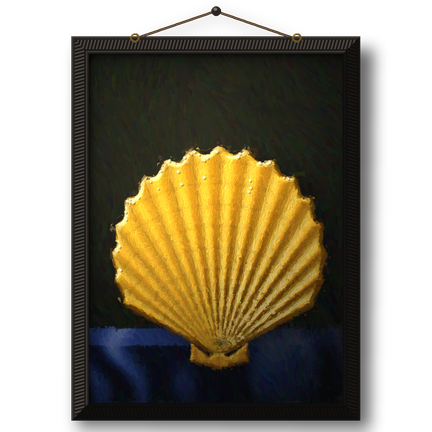
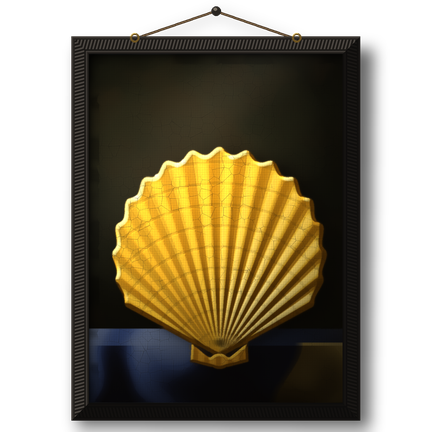
feat: 筆跡をやめ『真珠の耳飾りの少女』の油彩の質感に寄せる（v7）
輪郭線を消して陰の側で闇に溶かし、Kuwahara で色面をまとめ、
カンヴァスの布目・網目状の亀裂・黄ばんだワニスの艶・鉛白の盛り上がりを加えた。
卓の布はターバンの群青と垂れ布の黄。

Claude-Session: https://claude.ai/code/session_01V2YWGYfaTiAXVAgHL6hxQe

Changed region(s): [[0.2106, 0.331, 0.8125, 0.9329], [0.331, 0.6319, 0.3611, 0.662]]

diff --git a/icon-pack/tools/render_vermeer_portrait.py b/icon-pack/tools/render_vermeer_portrait.py
@@ -1,4 +1,4 @@
-"""聖なる持物パック v6 — フェルメール版を縦長の額装絵画にする。
+"""聖なる持物パック v7 — フェルメール版を縦長の額装の油彩画にする（『真珠の耳飾りの少女』の質感）。
 
 render_vermeer の室内を、持物を左へ寄せて描き直し、窓を含む左側を 3:4 前後の縦長に切り出す。
 それを黒檀の波形額に入れ、壁の釘から紐で吊るし、壁へ影を落とした透過 PNG にする。
@@ -61,121 +61,161 @@ def _raw_finish(base, rng, a=None):
     return base
 
 
-# ── 筆致: 画面を筆の線で塗り直し、絵具の盛り上がりに光を当てる ──────────────
+# ── 油彩の物質感（筆跡は見せない） ─────────────────────────────────
 
-def _orientation(src, rng):
-    lum = src.mean(-1)
-    b = ra.blur(lum, 3.0)
-    gy, gx = np.gradient(b)
-    mag = np.hypot(gx, gy)
-    along = np.arctan2(gx, -gy)                        # 輪郭に沿う向き
-    free = 1.15 + (fbm(rng, (160, 80)) - 0.5) * 1.6    # 平らな所は斜めに刷く
-    w = np.clip(mag / 3.0, 0, 1)
-    vx = np.cos(along) * w + np.cos(free) * (1 - w)
-    vy = np.sin(along) * w + np.sin(free) * (1 - w)
-    return np.arctan2(vy, vx), mag
-
-
-def painterly(src, rng, a=None):
-    """3 層の筆致（大・中・小）。各筆は毛先の筋を持ち、高さ図にも同じ形で盛る。"""
-    ang, mag = _orientation(src, rng)
-    src_soft = np.stack([ra.blur(src[..., c], 5) for c in range(3)], -1)
-    src_mid = np.stack([ra.blur(src[..., c], 1.6) for c in range(3)], -1)
-    color = Image.fromarray(np.clip(src_soft, 0, 255).astype(np.uint8))
-    height = Image.new("L", (S, S), 90)
-    cd, hd = ImageDraw.Draw(color), ImageDraw.Draw(height)
-    detail = np.clip(mag / 2.5, 0, 1)
-    layers = (
-        (src_soft, 4200, (34, 60), (12, 18), None),            # 下塗りの大きな筆
-        (src_mid, 12000, (18, 32), (7, 11), "lit"),            # 光の当たる面を起こす中筆
-        (src, 14000, (8, 14), (3, 5), "detail"),                # 輪郭と細部の小筆
-    )
-    for img, n, (l0, l1), (w0, w1), where in layers:
-        ys, xs = rng.integers(0, S, n), rng.integers(0, S, n)
-        if where == "detail":
-            keep = detail[ys, xs] * 1.5 + (a[ys, xs] * 0.8 if a is not None else 0) > rng.random(n)
-            ys, xs = ys[keep], xs[keep]
-        elif where == "lit":
-            lumv = img.mean(-1)[ys, xs] / 255
-            keep = rng.random(n) < (lumv * 1.4 + detail[ys, xs])
-            ys, xs = ys[keep], xs[keep]
-        elif where is not None:
-            keep = rng.random(n) < (where + detail[ys, xs])
-            ys, xs = ys[keep], xs[keep]
-        for y, x in zip(ys, xs):
-            t = ang[y, x] + rng.normal(0, 0.1)
-            L = rng.uniform(l0, l1) / 2
-            w = int(rng.uniform(w0, w1))
-            dx, dy = L * math.cos(t), L * math.sin(t)
-            p0, p1 = (x - dx, y - dy), (x + dx, y + dy)
-            c = img[y, x] + rng.normal(0, 5, 3)
-            col = tuple(int(v) for v in np.clip(c, 0, 255))
-            cd.line([p0, p1], fill=col, width=w)
-            hd.line([p0, p1], fill=150, width=w)
-            hd.line([p0, p1], fill=200, width=max(1, w // 2))
-            # 毛先の筋（明暗 2 本）
-            ox, oy = -math.sin(t) * w * 0.28, math.cos(t) * w * 0.28
-            for k, f in ((1, 1.07), (-1, 0.93)):
-                q0 = (p0[0] + ox * k, p0[1] + oy * k)
-                q1 = (p1[0] + ox * k, p1[1] + oy * k)
-                cd.line([q0, q1], fill=tuple(int(v) for v in np.clip(c * f, 0, 255)), width=max(1, w // 6))
-                hd.line([q0, q1], fill=120 if k > 0 else 230, width=max(1, w // 6))
-    out = np.asarray(color, float)
-    h = ra.blur(np.asarray(height, float) / 255, 1.1)
-    gy, gx = np.gradient(h * 9)
-    relief = np.clip((-gx * -0.6 - gy * -0.7) * 1.0, -1, 1)   # 左上からの光
-    lumf = np.clip(out.mean(-1) / 255 * 1.6, 0.15, 1)   # 筆跡の凹凸は明部ほど見える
-    out = out * (1 + relief * 0.2 * lumf)[..., None]
-    # 半分ほどを溶かした下層に戻し、フェルメールのなめらかさを出す
-    return out * 0.68 + src_mid * 0.32
+def _quadrant_means(img, r):
+    """Kuwahara 用: 各画素の四象限の平均色と輝度分散。"""
+    H, W = img.shape[:2]
+    lum = img.mean(-1)
+    def integ(a):
+        a = np.pad(a, ((r, r), (r, r)), mode="edge")
+        P = np.zeros((a.shape[0] + 1, a.shape[1] + 1) + a.shape[2:])
+        P[1:, 1:] = a.cumsum(0).cumsum(1)
+        return P
+    chans = [integ(img[..., c]) for c in range(3)] + [integ(lum), integ(lum ** 2)]
+    n = (r + 1) ** 2
+    res = []
+    for y0, x0 in ((-r, -r), (-r, 0), (0, -r), (0, 0)):
+        y1, x1 = y0 + r, x0 + r
+        def rect(P):
+            return (P[r + y1 + 1:r + y1 + 1 + H, r + x1 + 1:r + x1 + 1 + W]
+                    - P[r + y0:r + y0 + H, r + x1 + 1:r + x1 + 1 + W]
+                    - P[r + y1 + 1:r + y1 + 1 + H, r + x0:r + x0 + W]
+                    + P[r + y0:r + y0 + H, r + x0:r + x0 + W]) / n
+        m = np.stack([rect(chans[c]) for c in range(3)], -1)
+        var = rect(chans[4]) - rect(chans[3]) ** 2
+        res.append((m, var))
+    return res
 
 
-def impasto_dots(base, rng, a, n=120):
-    """明部に厚く盛った光の粒。粒の右下に小さな影。"""
+def paint_surface(img, r=6):
+    """輪郭を保ったまま色面をまとめる（Kuwahara）。油絵具で塗り込めた面になる。"""
+    res = _quadrant_means(img, r)
+    var = np.stack([v for _, v in res], 0)
+    idx = var.argmin(0)
+    out = np.zeros_like(img)
+    for k, (m, _) in enumerate(res):
+        out = np.where((idx == k)[..., None], m, out)
+    return np.stack([ra.blur(out[..., c], 0.9) for c in range(3)], -1)
+
+
+def lost_edges(base, a):
+    """輪郭線を消し、陰の側（右・下）で物を闇に溶かす。"""
+    if a is None:
+        return base
+    band = np.clip(1 - np.abs(ra.blur(a, 3) - 0.5) * 2.4, 0, 1)
+    shadow_side = np.clip((ra.X - 300) / 500, 0.25, 1)
+    soft = np.stack([ra.blur(base[..., c], 3.5) for c in range(3)], -1)
+    return ra.mix(base, soft, np.clip(band * (0.7 + 0.6 * shadow_side), 0, 1))
+
+
+def crack_network(rng, cell=30):
+    """『真珠の耳飾りの少女』に見える網目状の亀裂。ジッタ格子のボロノイ境界。"""
+    n = S // cell + 2
+    sx = (np.arange(n)[None, :] + rng.uniform(0.15, 0.85, (n, n))) * cell
+    sy = (np.arange(n)[:, None] + rng.uniform(0.15, 0.85, (n, n))) * cell
+    gy, gx = (ra.Y // cell).astype(int), (ra.X // cell).astype(int)
+    d = []
+    for oy in (-1, 0, 1):
+        for ox in (-1, 0, 1):
+            cy, cx = np.clip(gy + oy, 0, n - 1), np.clip(gx + ox, 0, n - 1)
+            d.append(np.hypot(ra.X - sx[cy, cx], ra.Y - sy[cy, cx]))
+    d = np.sort(np.stack(d, 0), 0)
+    crack = np.clip(1 - (d[1] - d[0]) / 1.4, 0, 1)
+    gaps = np.clip((fbm(rng, (64, 32)) - 0.38) * 4, 0, 1)   # ところどころ途切れる
+    return crack * gaps
+
+
+def canvas_weave(rng, period=7.0):
+    """亜麻布の平織り。経糸と緯糸が交互に浮く。"""
+    jx = (noise(rng, 24) - 0.5) * 1.6
+    jy = (noise(rng, 24) - 0.5) * 1.6
+    u = (ra.X + jx) / period
+    v = (ra.Y + jy) / period
+    warp = 0.5 + 0.5 * np.cos(2 * math.pi * u)
+    weft = 0.5 + 0.5 * np.cos(2 * math.pi * v)
+    checker = ((np.floor(u) + np.floor(v)) % 2).astype(float)
+    return warp * checker + weft * (1 - checker)
+
+
+def oil_finish(base, rng, a=None):
+    base = lost_edges(base, a)
+    base = paint_surface(base, 4)
+    lum = np.clip(base.mean(-1) / 255, 0, 1)
+    # 明部ほど鉛白が厚い: 低い盛り上がりに左上の光
+    h = ra.blur(lum, 4) * np.clip(lum * 1.8 - 0.3, 0, 1)
+    gy, gx = np.gradient(h * 30)
+    relief = np.clip(-gx * -0.6 - gy * -0.7, -1, 1)
+    base = base * (1 + relief * 0.18)[..., None]
+    # 布目（明部でよく見える）
+    weave = canvas_weave(rng)
+    base = base * (1 + (weave - 0.5) * (0.05 + 0.07 * lum))[..., None]
+    # 網目の亀裂: 暗い溝と、めくれた縁の小さな光
+    cr = crack_network(rng)
+    base = base * (1 - cr * (0.22 + 0.25 * lum))[..., None]
+    lip = np.roll(np.roll(cr, -1, 0), -1, 1) * (1 - cr)
+    base = ra.mix(base, hexrgb("#f4e6c0"), lip * lum * 0.18)
+    # 黄ばんだワニスのむらと、左上から斜めに走る艶
+    varn = 0.94 + 0.08 * fbm(rng, (128, 64))
+    base = base * varn[..., None] * np.array([1.04, 1.0, 0.86])
+    sheen = np.exp(-(((ra.X + ra.Y - 520) / 160) ** 2)) * np.clip(1 - ra.Y / 900, 0, 1)
+    return base + sheen[..., None] * 14
+
+
+def pearl_highlights(base, rng, a, n=6):
+    """真珠の耳飾りのように、ごく少数の澄んだ光の点だけを置く。"""
+    if a is None or not (a > 0.5).any():
+        return base
     lum = base.mean(-1)
-    sel_mask = (a > 0.5) if a is not None and (a > 0.5).any() else np.ones_like(lum, bool)
-    thr = np.quantile(lum[sel_mask], 0.97)
-    pts = np.argwhere((lum > thr) & sel_mask)
+    thr = np.quantile(lum[a > 0.5], 0.995)
+    pts = np.argwhere((lum >= thr) & (a > 0.5))
     if not len(pts):
         return base
     pts = pts[rng.choice(len(pts), min(n, len(pts)), replace=False)]
     dots = Image.new("L", (S, S), 0)
     d = ImageDraw.Draw(dots)
     for y, x in pts:
-        r = rng.uniform(2.5, 4.8)
-        d.ellipse([x - r, y - r, x + r, y + r], fill=255)
-    m = ra.blur(np.asarray(dots, float) / 255, 0.9)
-    sh = np.roll(np.roll(m, 3, 0), 3, 1) * (1 - m)
-    base = base * (1 - sh * 0.35)[..., None]
-    return ra.mix(base, hexrgb("#fff8e0"), m * 0.9)
+        r = rng.uniform(4, 7)
+        d.ellipse([x - r, y - r * 0.8, x + r, y + r * 0.8], fill=255)
+    m = ra.blur(np.asarray(dots, float) / 255, 1.6)
+    return ra.mix(base, hexrgb("#fffaf0"), m * 0.85)
 
 
 def grade(base):
-    """光は温かく影は青灰。にじみ（ぼかし）は掛けない — 筆跡を残す。"""
+    """明暗を深め（S 字の階調）、光は鉛白のクリーム、影は温かい褐色に寄せる。"""
+    lum0 = np.clip(base.mean(-1) / 255, 0, 1)
+    curve = lum0 + 0.18 * np.sin((lum0 - 0.5) * math.pi) * 0.5 - 0.0
+    base = base * (np.clip(curve, 0, 1) / np.maximum(lum0, 1e-3))[..., None] * 0.5 + base * 0.5
     lum = np.clip(base.mean(-1) / 255, 0, 1)[..., None]
-    out = base * (1 - (1 - lum) ** 2 * 0.1) + hexrgb("#44505a") * (1 - lum) ** 2 * 0.1
+    out = base * (1 - (1 - lum) ** 2 * 0.1) + hexrgb("#3a2a1c") * (1 - lum) ** 2 * 0.1
     out = out * (1 - lum ** 3 * 0.06) + hexrgb("#fff0cc") * lum ** 3 * 0.06
-    weave = 1 + 0.03 * (np.sin(np.arange(S)[:, None] * 2.1) * np.sin(np.arange(S)[None, :] * 2.1))
-    return out * weave[..., None] * np.array([1.03, 1.0, 0.93])
+    return out
 
 
 def dark_ground(rng):
     """『真珠の耳飾りの少女』の地: 緑の釉が暗く沈んだ黒。左上の光がわずかに地を起こす。"""
     X, Y = ra.X, ra.Y
     glow = np.exp(-(((X - 300) ** 2 + (Y - 330) ** 2) / (2 * 300 ** 2)))
-    base = ramp(["#0d0f0a", "#1a1c14", "#2a2a1e"], glow * 0.9 + (fbm(rng, (128, 64)) - 0.5) * 0.15)
+    base = ramp(["#0b0d09", "#181a12", "#2a2a1e", "#3a3424"], glow * 0.9 + (fbm(rng, (128, 64)) - 0.5) * 0.2)
+    # 透ける下塗り: 温かい褐色と冷たい緑の斑（暗い地にも絵具の層がある）
+    under = fbm(rng, (96, 48, 24))
+    base = ra.mix(base, base * 0.7 + hexrgb("#3a2414") * 0.3, np.clip((under - 0.5) * 3, 0, 1) * 0.6)
+    base = ra.mix(base, base * 0.8 + hexrgb("#1a2a1e") * 0.2, np.clip((0.5 - under) * 3, 0, 1) * 0.5)
     return base
 
 
 def dark_cloth(base, rng):
-    """卓に掛けた群青の布。光は左上から、右と奥は闇に沈む。"""
+    """卓に掛けた布。『真珠の耳飾りの少女』のターバンの群青と、右へ垂れる鉛錫黄の布。"""
     X, Y = ra.X, ra.Y
-    fold = np.sin(X / 40 + np.sin(X / 120) * 2.5 + fbm(rng, (128,)) * 5)
-    t = np.where(Y < rv.FRONT, 0.55 + 0.12 * fold, 0.36 + 0.3 * fold - (Y - rv.FRONT) / 500)
-    col = ramp(["#05081a", "#101e52", "#2a46a0", "#7890d0", "#d8e0f0"], t)
-    fall = np.clip(1.15 - X / 900, 0.25, 1)
+    fold = np.sin(X / 52 + np.sin(X / 150) * 2.2 + fbm(rng, (128,)) * 4)
+    t = np.where(Y < rv.FRONT, 0.6 + 0.1 * fold, 0.42 + 0.26 * fold - (Y - rv.FRONT) / 520)
+    blue = ramp(["#0a0e22", "#1c2a62", "#3c56a8", "#7e92cc", "#c4cce4"], t)
+    yellow = ramp(["#2a1e0a", "#6a5220", "#b89a48", "#e6d08c", "#f6ecc4"], t + 0.05)
+    tail = np.clip((X - 560 - 40 * np.sin(Y / 60)) / 30, 0, 1) * (Y > rv.FRONT - 10)
+    col = ra.mix(blue, yellow, tail)
+    fall = np.clip(1.15 - X / 950, 0.3, 1) * (1 - tail) + np.clip(1.25 - X / 1300, 0.5, 1) * tail
     col = col * fall[..., None]
-    return ra.mix(base, col, ra.blur((Y >= rv.TABLE).astype(float), 1.0))
+    return ra.mix(base, col, ra.blur((Y >= rv.TABLE).astype(float), 1.5))
 
 
 def chiaroscuro(base, a):
@@ -262,10 +302,9 @@ def render(fn, seed):
     prng = np.random.default_rng(seed + 9)
     if name != "weather_rainbow":
         scene = chiaroscuro(scene, a)
-    scene = painterly(scene, prng, a)
-    scene = impasto_dots(scene, prng, a, n=36 if a is not None else 12)
+    scene = pearl_highlights(scene, prng, a)
     scene = grade(scene)
-    scene = scene * (1 - rn.craquelure(prng) * 0.05)[..., None]
+    scene = oil_finish(scene, prng, a)
     x0 = CROP_X.get(name, 0)
     crop = scene[:, x0:x0 + CROP_W]
     framed = ebony_frame(crop)
